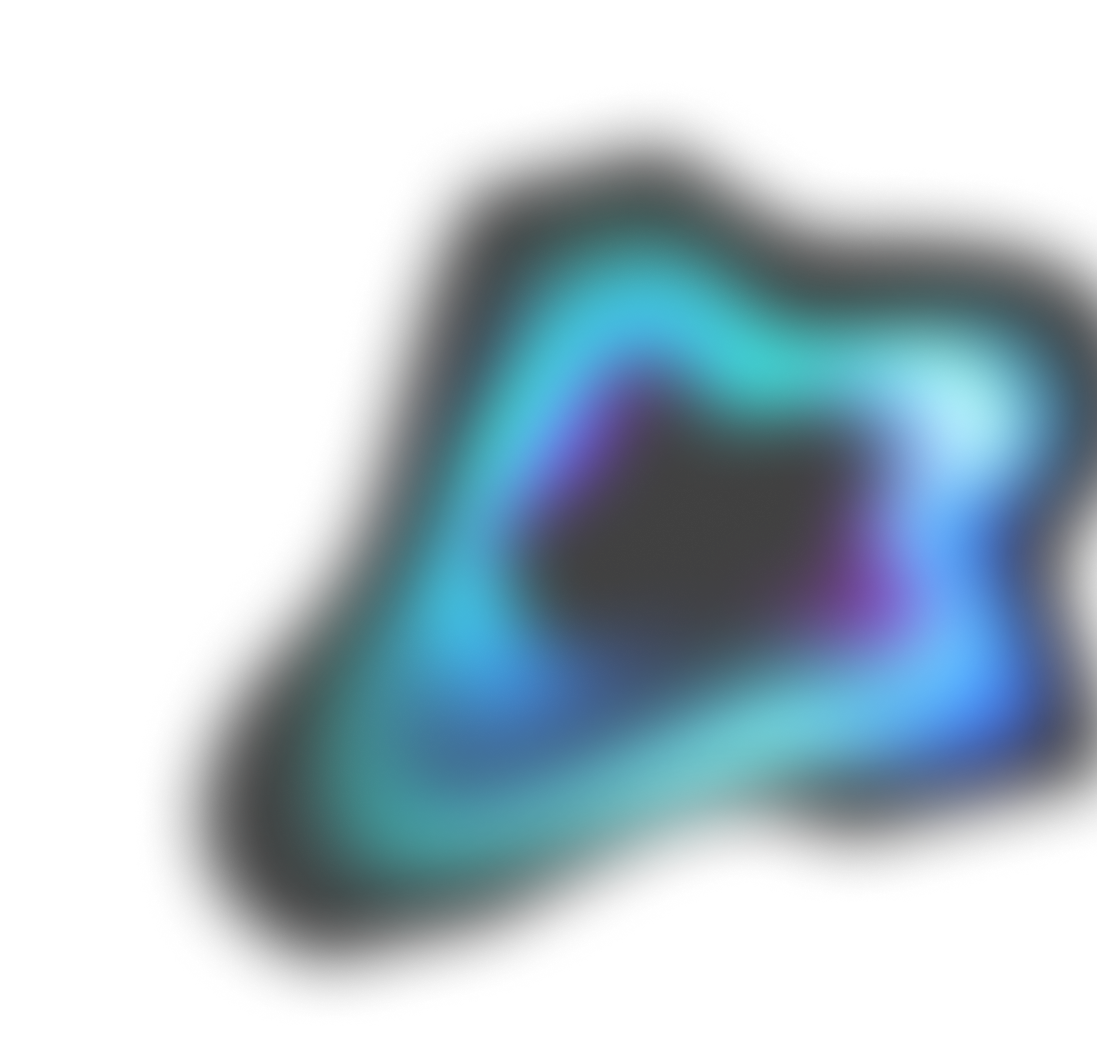
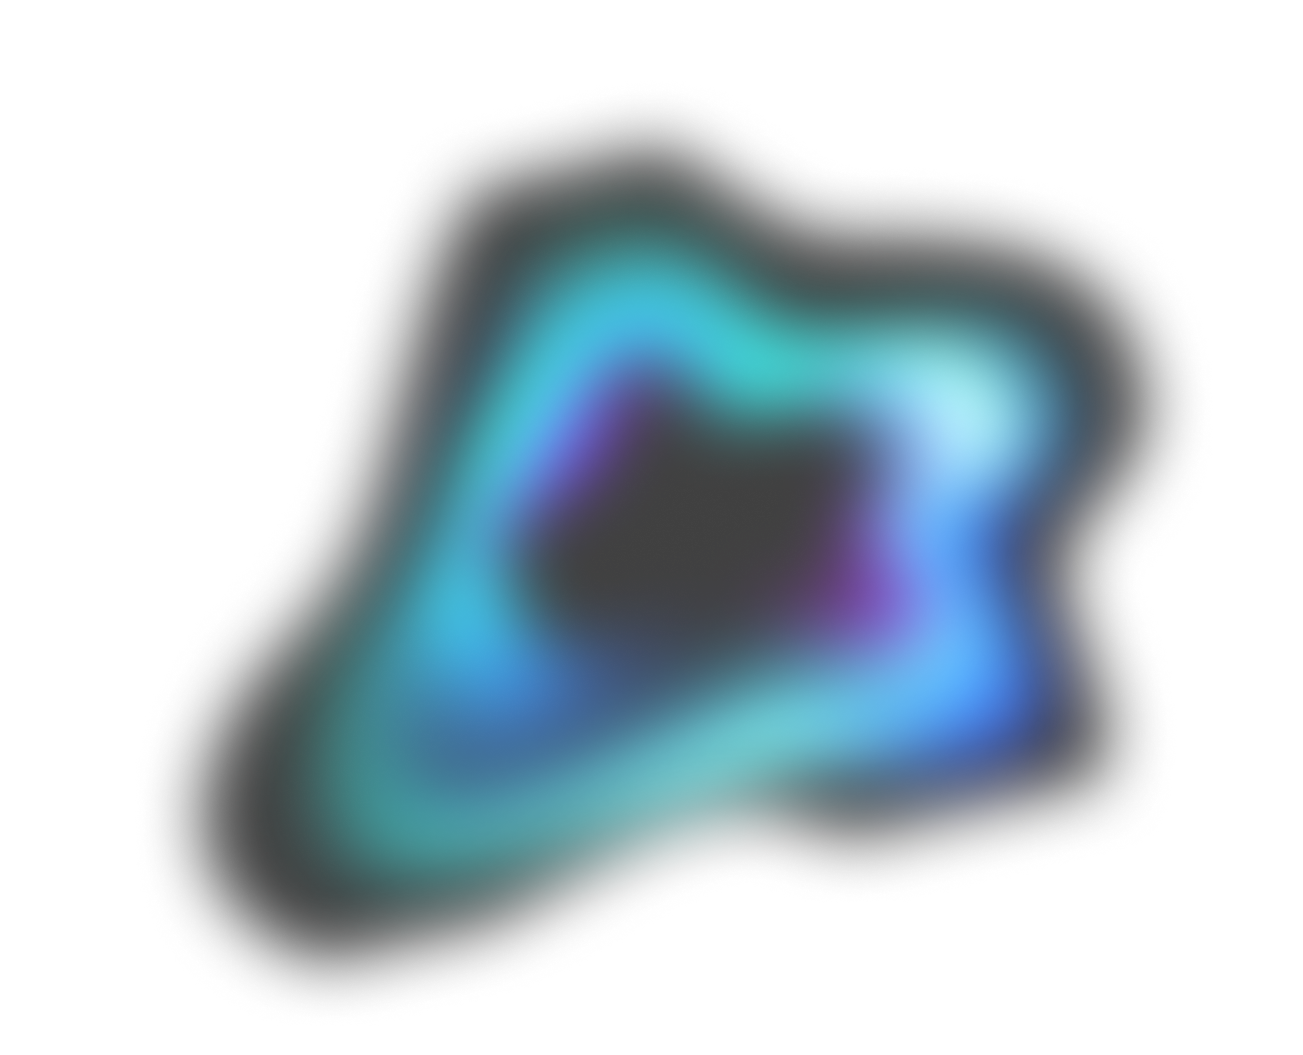
add bg

diff --git a/css/pages/_home.scss b/css/pages/_home.scss
@@ -3,7 +3,35 @@
 }
 
 .hero {
+   // position: relative;
+   // z-index: 1;
+   background: url("/img/section-hero/bg-hero.png") 50% 50% no-repeat;
    background-color: $bg-color;
+
+   // &::before {
+   //    content: "";
+   //    width: 120rem;
+   //    height: 117rem;
+   //    background: url("/img/section-hero/decor-big.png") no-repeat;
+   //    position: absolute;
+   //    top: -11.1rem;
+   //    right: -19.6rem;
+   //    opacity: 0.75;
+   //    filter: blur(36.54999923706055px);
+   //    mix-blend-mode: screen;
+   // }
+   // &::after {
+   //    content: "";
+   //    width: 60.7rem;
+   //    height: 51.4rem;
+   //    background: url("/img/section-hero/decor-small.png") no-repeat;
+   //    position: absolute;
+   //    top: -8rem;
+   //    left: 0;
+   //    mix-blend-mode: screen;
+   //    // opacity: 0.75;
+   // }
+
    &__container {
       @include display-flex;
       padding: 6rem 1.5rem 13.3rem 1.5rem;
@@ -20,6 +48,7 @@
       margin-bottom: 26px;
       font-size: 7.6rem;
    }
+
    &__label {
       margin-bottom: 26rem;
    }
@@ -132,6 +161,32 @@
    }
 }
 .number {
+   background: url("/img/section-number/bg-numbers.png") 50% 50% no-repeat;
+   // position: relative;
+   // z-index: 1;
+   // &::before {
+   //    content: "";
+   //    width: 110rem;
+   //    height: 112rem;
+   //    background: url("/img/section-number/decor-big.png") no-repeat;
+   //    position: absolute;
+   //    top: -2.1rem;
+   //    right: -19.6rem;
+   //    opacity: 0.55;
+   //    filter: blur(22.5px);
+   // }
+   // &::after {
+   //    content: "";
+   //    width: 64.2rem;
+   //    height: 40rem;
+   //    background: url("/img/section-number/decor-small.png") no-repeat;
+   //    position: absolute;
+   //    top: 7rem;
+   //    left: -29rem;
+   //    filter: blur(21.75px);
+   //    // opacity: 0.75;
+   // }
+
    &__container {
       padding: 11.8rem 1.5rem 8.8rem 1.5rem;
    }
@@ -260,6 +315,20 @@
 }
 
 .technologies {
+   // position: relative;
+   // z-index: 1;
+   background: url("/img/section-technologies/technology_bg.png") 50% -150% no-repeat;
+   // &::before {
+   //    content: "";
+   //    width: 112rem;
+   //    height: 81rem;
+   //    background: url("/img/section-technologies/technology_bg.png") no-repeat;
+   //    position: absolute;
+   //    top: 0;
+   //    right: 0;
+   //    opacity: 0.55;
+   //    filter: blur(36.29999923706055px);
+   // }
    &__container {
       padding-top: 15.9rem;
    }
@@ -417,8 +486,10 @@
 // }
 
 .solutions {
+   background: url("/img/section-solutions/solutions_bg.png") 50% 90% no-repeat;
    &__container {
       padding-top: 25.5rem;
+      padding-bottom: 24.2rem;
    }
    &__wrapper {
       display: grid;
@@ -498,11 +569,12 @@
    }
 }
 .solutions-process {
+   
    p:last-child {
       margin: 0;
    }
    &__container {
-      padding-top: 24.2rem;
+      background: url("/img/section-solutions-process/optimal solution_bg.png") 120% 85% no-repeat;
    }
    &__title {
       font-size: 7.2rem;
@@ -768,6 +840,7 @@
 }
 
 .contact {
+   background: url("/img/section-contact/lets chat_bg.png") 50% 200% no-repeat;
    &__container {
       padding: 15.1rem 1.5rem 15.8rem 1.5rem;
    }

diff --git a/css/style.css b/css/style.css
@@ -513,6 +513,7 @@ a {
 }
 
 .hero {
+  background: url("/img/section-hero/bg-hero.png") 50% 50% no-repeat;
   background-color: #142625;
 }
 .hero__container {
@@ -637,6 +638,9 @@ a {
   z-index: 100;
 }
 
+.number {
+  background: url("/img/section-number/bg-numbers.png") 50% 50% no-repeat;
+}
 .number__container {
   padding: 11.8rem 1.5rem 8.8rem 1.5rem;
 }
@@ -755,6 +759,9 @@ a {
   color: #0a10b8;
 }
 
+.technologies {
+  background: url("/img/section-technologies/technology_bg.png") 50% -150% no-repeat;
+}
 .technologies__container {
   padding-top: 15.9rem;
 }
@@ -838,8 +845,12 @@ a {
   grid-row: 4;
 }
 
+.solutions {
+  background: url("/img/section-solutions/solutions_bg.png") 50% 90% no-repeat;
+}
 .solutions__container {
   padding-top: 25.5rem;
+  padding-bottom: 24.2rem;
 }
 .solutions__wrapper {
   display: grid;
@@ -906,7 +917,7 @@ a {
   margin: 0;
 }
 .solutions-process__container {
-  padding-top: 24.2rem;
+  background: url("/img/section-solutions-process/optimal solution_bg.png") 120% 85% no-repeat;
 }
 .solutions-process__title {
   font-size: 7.2rem;
@@ -1159,6 +1170,9 @@ a {
   line-height: 4;
 }
 
+.contact {
+  background: url("/img/section-contact/lets chat_bg.png") 50% 200% no-repeat;
+}
 .contact__container {
   padding: 15.1rem 1.5rem 15.8rem 1.5rem;
 }
